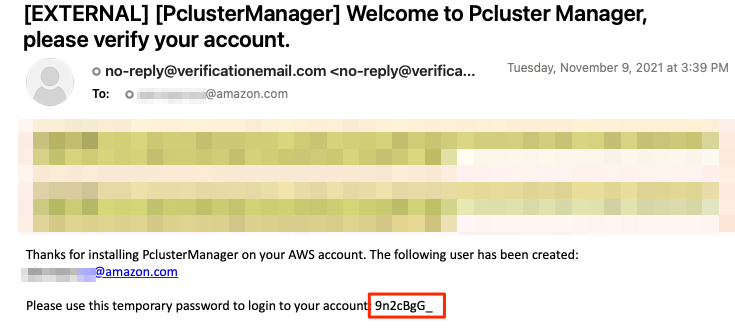
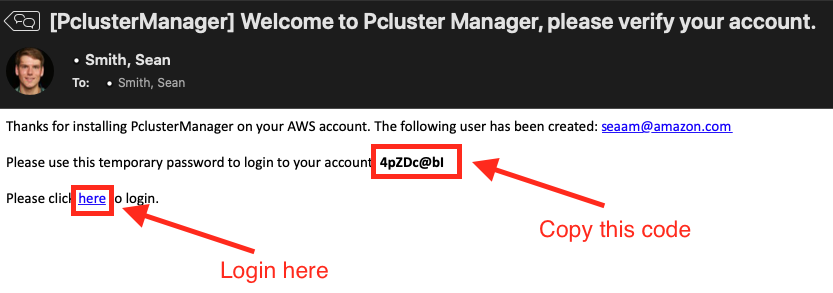
Added email link to login

diff --git a/docs/content/01-getting-started/03-pcmanager-connect.md b/docs/content/01-getting-started/03-pcmanager-connect.md
@@ -3,22 +3,21 @@ title = "c. Connect to Pcluster Manager"
 weight = 13
 +++
 
-1. Got to the AWS Console, in the search box search for [**AWS CloudFormation**](https://console.aws.amazon.com/cloudformation/home) and click on that service.
-
-2. You'll see a stack named **pcluster-manager**, click on that stack > **Outputs** Tab then click on the **PclusterManagerUrl** to connect.
-
-![Pcluster Manager Deployed](pcmanager-url.png)
-
-3. During deployment you received an email titled **[PclusterManager] Welcome to Pcluster Manager, please verify your account.**. Copy the password from that email.
+1. During deployment you received an email titled **[PclusterManager] Welcome to Pcluster Manager, please verify your account.**. Click on the link to login with the temporary code provided.
 
 ![Pcluster Manager](pcm-email.png)
 
-4. **Enter the credentials**  using the *email* you used when deploying the stack and the *temporary password* from the email above.
+2. **Enter the credentials**  using the *email* you used when deploying the stack and the *temporary password* from the email above.
 
 ![Pcluster Manager CloudFormation Stack](pcmanager-creds.png)
 
-4. You will be asked to provide a new password. Enter a new password to complete signup.
+3. You will be asked to provide a new password. Enter a new password to complete signup.
 
 ![Signup Screen](signup.png)
 
 Congrats! You are ready to create your HPC cluster in AWS. Let's do that in the next section.
+
+{{% notice note %}}
+To get the URL outside of the email, go to [**AWS CloudFormation**](https://console.aws.amazon.com/cloudformation/home) > **pcluster-manager** > **Outputs** then click on the **PclusterManagerUrl** to connect.
+![Pcluster Manager Deployed](pcmanager-url.png)
+{{% /notice %}}
